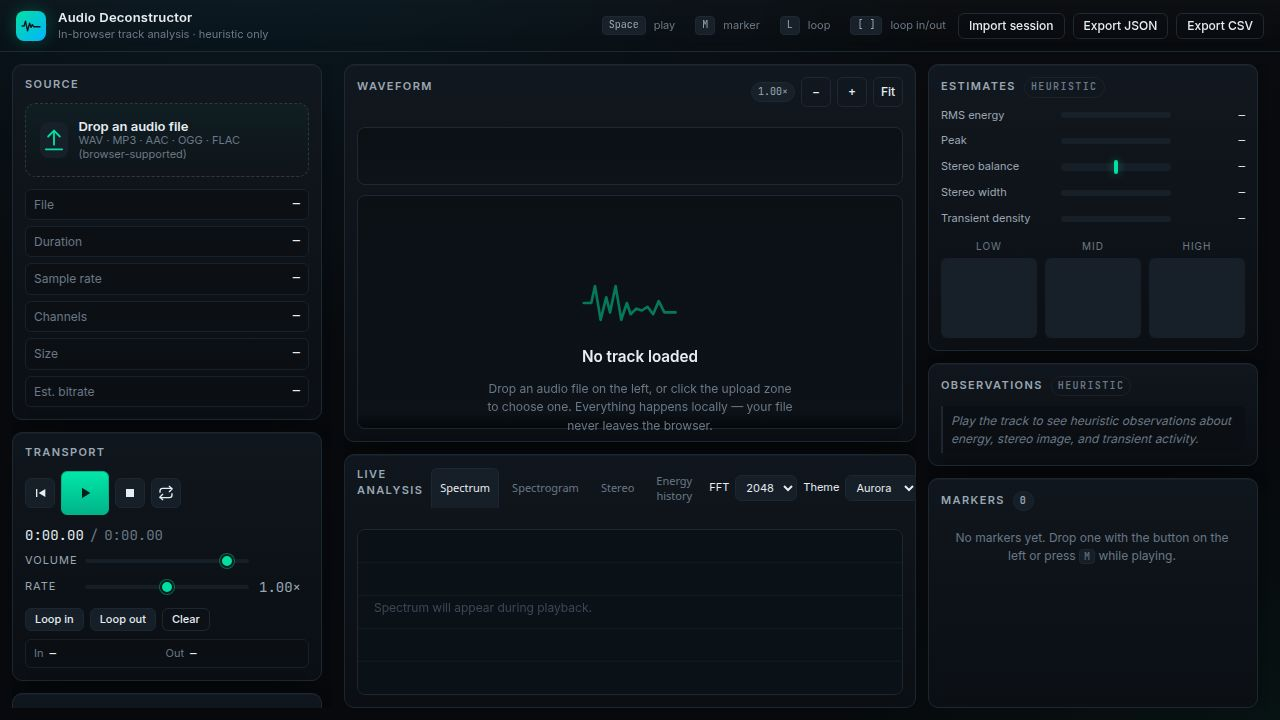
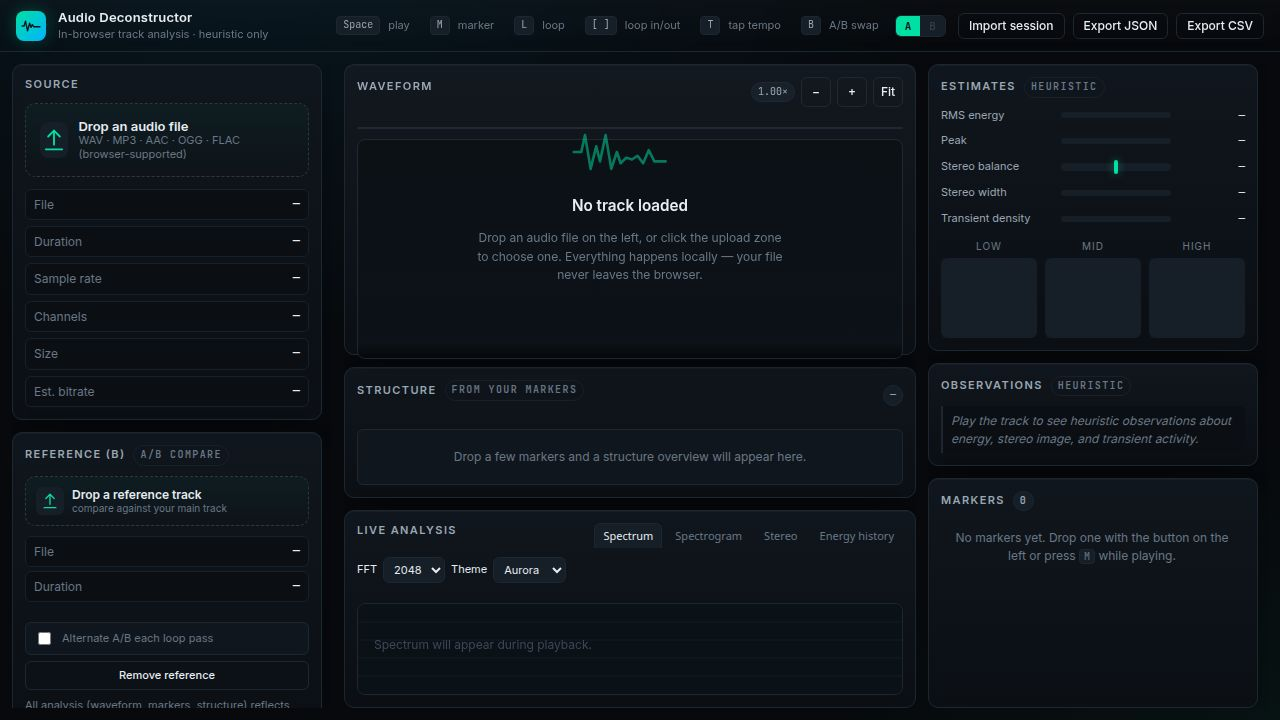
Add A/B comparison mode for analyzing multiple audio tracks
Introduce A/B audio track comparison functionality, allowing users to load and switch between two audio sources with synchronized playback, analysis, and comparison features.

Replit-Commit-Author: Agent
Replit-Commit-Session-Id: bc518ecd-7a12-47fa-b760-bdd7c34e5686
Replit-Commit-Checkpoint-Type: full_checkpoint
Replit-Commit-Event-Id: 87db0389-06eb-4f5e-9b43-9b7a5da2bd17
Replit-Commit-Screenshot-Url: https://storage.googleapis.com/screenshot-production-us-central1/5b295607-d7a9-4be4-af23-7a80d4bef0c7/bc518ecd-7a12-47fa-b760-bdd7c34e5686/RmlXYht
Replit-Helium-Checkpoint-Created: true

diff --git a/artifacts/audio-deconstructor/src/script.js b/artifacts/audio-deconstructor/src/script.js
@@ -25,9 +25,14 @@ const CAT_BY_ID = Object.fromEntries(CATEGORIES.map(c => [c.id, c]));
 
 const state = {
   audioCtx: null,
-  buffer: null,            // AudioBuffer
+  buffer: null,            // AudioBuffer (track A — analysed)
   fileName: null,
   fileSize: 0,
+  refBuffer: null,         // AudioBuffer (track B — reference, audio-only)
+  refFileName: null,
+  refFileSize: 0,
+  activeSource: "A",       // which buffer is currently routed to playback
+  abAlternate: false,      // when looping, swap A/B at every loop pass
   source: null,            // AudioBufferSourceNode
   gainNode: null,
   analyserMix: null,       // mono mix analyser
@@ -112,6 +117,18 @@ const el = {
 
   structureStrip: q("#structure-strip"),
   structureSummary: q("#structure-summary"),
+
+  refDropzone: q("#ref-dropzone"),
+  refFileInput: q("#ref-file-input"),
+  refMetaGrid: q("#ref-meta-grid"),
+  refMetaName: q("#ref-meta-name"),
+  refMetaDuration: q("#ref-meta-duration"),
+  abControls: q("#ab-controls"),
+  abAlternate: q("#ab-alternate"),
+  btnRefClear: q("#btn-ref-clear"),
+  abIndicator: q("#ab-indicator"),
+  abSideA: q("#ab-side-a"),
+  abSideB: q("#ab-side-b"),
 
   timeCurrent: q("#time-current"),
   timeTotal: q("#time-total"),
@@ -230,6 +247,8 @@ async function handleFile(file) {
     state.buffer = decoded;
     state.fileName = file.name;
     state.fileSize = file.size;
+    state.activeSource = "A";
+    updateAbUi();
     state.startedFrom = 0;
     state.scroll = 0;
     state.zoom = 1;
@@ -258,6 +277,84 @@ async function handleFile(file) {
   }
 }
 
+async function handleRefFile(file) {
+  if (!file) return;
+  if (!/^audio\//i.test(file.type) && !/\.(wav|mp3|aac|m4a|ogg|opus|flac|webm)$/i.test(file.name)) {
+    showToast("That doesn't look like an audio file.", "error");
+    return;
+  }
+  if (!state.buffer) {
+    showToast("Load a main track first, then add a reference.", "error");
+    return;
+  }
+  showToast(`Decoding reference ${file.name}…`);
+  const ctx = getCtx();
+  try {
+    const arrayBuffer = await file.arrayBuffer();
+    const decoded = await ctx.decodeAudioData(arrayBuffer.slice(0));
+    state.refBuffer = decoded;
+    state.refFileName = file.name;
+    state.refFileSize = file.size;
+    updateRefMeta();
+    updateAbUi();
+    showToast("Reference track loaded — switch to B to compare.", "success");
+  } catch (e) {
+    console.error(e);
+    showToast("Could not decode reference file.", "error");
+  }
+}
+
+function clearReference() {
+  if (state.activeSource === "B") setActiveSource("A", { silent: true });
+  state.refBuffer = null;
+  state.refFileName = null;
+  state.refFileSize = 0;
+  state.abAlternate = false;
+  if (el.abAlternate) el.abAlternate.checked = false;
+  updateRefMeta();
+  updateAbUi();
+  showToast("Reference removed.");
+}
+
+function updateRefMeta() {
+  if (state.refBuffer) {
+    el.refMetaGrid.hidden = false;
+    el.abControls.hidden = false;
+    el.refMetaName.textContent = state.refFileName || "—";
+    el.refMetaDuration.textContent = formatTime(state.refBuffer.duration);
+  } else {
+    el.refMetaGrid.hidden = true;
+    el.abControls.hidden = true;
+    el.refMetaName.textContent = "—";
+    el.refMetaDuration.textContent = "—";
+  }
+}
+
+function updateAbUi() {
+  const hasRef = !!state.refBuffer;
+  el.abSideB.disabled = !hasRef;
+  el.abSideA.classList.toggle("active", state.activeSource === "A");
+  el.abSideB.classList.toggle("active", state.activeSource === "B");
+}
+
+function setActiveSource(side, opts = {}) {
+  if (side !== "A" && side !== "B") return;
+  if (side === "B" && !state.refBuffer) {
+    showToast("Load a reference track first.");
+    return;
+  }
+  if (state.activeSource === side) { updateAbUi(); return; }
+  state.activeSource = side;
+  updateAbUi();
+  if (!opts.silent) {
+    showToast(side === "A" ? "Now playing: A (main)" : "Now playing: B (reference)", "success");
+  }
+  if (state.isPlaying && opts.restart !== false) {
+    const t = currentTime();
+    playFrom(t);
+  }
+}
+
 function updateMeta() {
   if (!state.buffer) return;
   el.metaName.textContent = state.fileName || "—";
@@ -275,14 +372,19 @@ function updateMeta() {
 
 /* ---------------- Playback ---------------- */
 
+function getActiveBuffer() {
+  return state.activeSource === "B" && state.refBuffer ? state.refBuffer : state.buffer;
+}
+
 function playFrom(time) {
   if (!state.buffer) return;
   stopPlayback(true); // silent stop
   const ctx = getCtx();
   if (ctx.state === "suspended") ctx.resume();
 
+  const playBuf = getActiveBuffer();
   const src = ctx.createBufferSource();
-  src.buffer = state.buffer;
+  src.buffer = playBuf;
   src.playbackRate.value = state.rate;
 
   // Build analyser graph
@@ -301,7 +403,7 @@ function playFrom(time) {
   src.connect(analyserMix);
   src.connect(splitter);
   splitter.connect(analyserL, 0);
-  splitter.connect(analyserR, state.buffer.numberOfChannels > 1 ? 1 : 0);
+  splitter.connect(analyserR, playBuf.numberOfChannels > 1 ? 1 : 0);
 
   analyserMix.connect(state.gainNode);
 
@@ -320,7 +422,7 @@ function playFrom(time) {
     }
   };
 
-  const startTime = clamp(time, 0, state.buffer.duration - 0.001);
+  const startTime = clamp(time, 0, playBuf.duration - 0.001);
   state.startedAt = ctx.currentTime;
   state.startedFrom = startTime;
   src.start(0, startTime);
@@ -362,11 +464,12 @@ function togglePlay() {
 
 function currentTime() {
   if (!state.buffer) return 0;
+  const playBuf = getActiveBuffer();
   if (state.isPlaying && state.audioCtx) {
     const t = state.startedFrom + (state.audioCtx.currentTime - state.startedAt) * state.rate;
-    return clamp(t, 0, state.buffer.duration);
+    return clamp(t, 0, playBuf.duration);
   }
-  return clamp(state.startedFrom, 0, state.buffer.duration);
+  return clamp(state.startedFrom, 0, playBuf.duration);
 }
 
 function seekTo(t) {
@@ -390,6 +493,9 @@ function scheduleLoopWatcher() {
 }
 function seekToLoopStart() {
   if (state.isLooping && state.loopIn != null && state.loopOut != null) {
+    if (state.abAlternate && state.refBuffer) {
+      setActiveSource(state.activeSource === "A" ? "B" : "A", { silent: true, restart: false });
+    }
     playFrom(state.loopIn);
   }
 }
@@ -1612,6 +1718,30 @@ function bindEvents() {
     e.target.value = "";
   });
 
+  // Reference (B) drop zone
+  ["dragenter", "dragover"].forEach(ev =>
+    el.refDropzone.addEventListener(ev, (e) => { e.preventDefault(); e.stopPropagation(); el.refDropzone.classList.add("drag"); }));
+  ["dragleave", "drop"].forEach(ev =>
+    el.refDropzone.addEventListener(ev, (e) => { e.preventDefault(); e.stopPropagation(); el.refDropzone.classList.remove("drag"); }));
+  el.refDropzone.addEventListener("drop", (e) => {
+    const f = e.dataTransfer?.files?.[0];
+    if (f) handleRefFile(f);
+  });
+  el.refDropzone.addEventListener("click", () => el.refFileInput.click());
+  el.refDropzone.addEventListener("keydown", (e) => { if (e.key === "Enter" || e.key === " ") { e.preventDefault(); el.refFileInput.click(); } });
+  el.refFileInput.addEventListener("change", (e) => {
+    const f = e.target.files?.[0];
+    if (f) handleRefFile(f);
+    e.target.value = "";
+  });
+  el.btnRefClear.addEventListener("click", clearReference);
+  el.abAlternate.addEventListener("change", (e) => {
+    state.abAlternate = e.target.checked;
+    showToast(state.abAlternate ? "Alternate A/B per loop pass on" : "Alternate A/B off");
+  });
+  el.abSideA.addEventListener("click", () => setActiveSource("A"));
+  el.abSideB.addEventListener("click", () => setActiveSource("B"));
+
   // Transport
   el.btnPlay.addEventListener("click", togglePlay);
   el.btnStop.addEventListener("click", () => { stopPlayback(); state.startedFrom = 0; updatePlayhead(); updateTimeReadout(); });
@@ -1834,6 +1964,7 @@ function bindEvents() {
     if (e.code === "Space") { e.preventDefault(); togglePlay(); }
     else if (e.key === "m" || e.key === "M") { if (state.buffer) addMarkerAt(currentTime(), state.selectedCategory); }
     else if (e.key === "t" || e.key === "T") { tapTempo(); }
+    else if (e.key === "b" || e.key === "B") { setActiveSource(state.activeSource === "A" ? "B" : "A"); }
     else if (e.key === "l" || e.key === "L") { el.btnLoop.click(); }
     else if (e.key === "[") { el.btnLoopIn.click(); }
     else if (e.key === "]") { el.btnLoopOut.click(); }
@@ -1860,6 +1991,8 @@ function bindEvents() {
 function init() {
   buildCategoryChips();
   bindEvents();
+  updateRefMeta();
+  updateAbUi();
   // Always run an animation tick so resize / zoom always update analyzer
   if (!state.rafId) state.rafId = requestAnimationFrame(tick);
 }

diff --git a/artifacts/audio-deconstructor/index.html b/artifacts/audio-deconstructor/index.html
@@ -31,6 +31,11 @@
           <kbd class="hint">L</kbd><span class="hint-label">loop</span>
           <kbd class="hint">[ ]</kbd><span class="hint-label">loop in/out</span>
           <kbd class="hint">T</kbd><span class="hint-label">tap tempo</span>
+          <kbd class="hint">B</kbd><span class="hint-label">A/B swap</span>
+          <div class="ab-indicator" id="ab-indicator" title="Currently playing source — click to swap (B)">
+            <button class="ab-side active" data-side="A" id="ab-side-a">A</button>
+            <button class="ab-side" data-side="B" id="ab-side-b" disabled>B</button>
+          </div>
           <button class="btn ghost" id="btn-import-json" title="Import a previously saved session JSON">Import session</button>
           <button class="btn ghost" id="btn-export-json" title="Export markers + notes as JSON">Export JSON</button>
           <button class="btn ghost" id="btn-export-csv" title="Export markers as CSV">Export CSV</button>
@@ -64,6 +69,34 @@
               <div class="meta-row"><span>Size</span><strong id="meta-size">—</strong></div>
               <div class="meta-row"><span>Est. bitrate</span><strong id="meta-bitrate">—</strong></div>
             </div>
+          </section>
+
+          <section class="card" id="reference-card">
+            <h2 class="card-title">Reference (B) <span class="badge subtle">A/B compare</span></h2>
+            <div class="dropzone compact" id="ref-dropzone" tabindex="0" aria-label="Drop a reference audio file for A/B comparison">
+              <div class="dz-icon" aria-hidden="true">
+                <svg viewBox="0 0 24 24" width="20" height="20" fill="none" stroke="currentColor" stroke-width="1.6" stroke-linecap="round" stroke-linejoin="round">
+                  <path d="M12 16V4"/><path d="M7 9l5-5 5 5"/><path d="M5 20h14"/>
+                </svg>
+              </div>
+              <div class="dz-text">
+                <strong>Drop a reference track</strong>
+                <span>compare against your main track</span>
+              </div>
+              <input type="file" id="ref-file-input" accept="audio/*" hidden />
+            </div>
+            <div class="meta-grid compact" id="ref-meta-grid" hidden>
+              <div class="meta-row"><span>File</span><strong id="ref-meta-name">—</strong></div>
+              <div class="meta-row"><span>Duration</span><strong id="ref-meta-duration">—</strong></div>
+            </div>
+            <div class="ab-controls" id="ab-controls" hidden>
+              <label class="snap-toggle" title="When looping, automatically swap A/B at every loop boundary so you can hear them back to back">
+                <input type="checkbox" id="ab-alternate" />
+                <span>Alternate A/B each loop pass</span>
+              </label>
+              <button class="btn small ghost block" id="btn-ref-clear" title="Remove reference track">Remove reference</button>
+            </div>
+            <p class="muted-note">All analysis (waveform, markers, structure) reflects track A. Switch playback to B to hear how they differ at the same position.</p>
           </section>
 
           <section class="card">

diff --git a/artifacts/audio-deconstructor/src/style.css b/artifacts/audio-deconstructor/src/style.css
@@ -269,9 +269,35 @@ body {
 .dz-text span { font-size: 11px; color: var(--text-mute); }
 
 .meta-grid { margin-top: 12px; display: grid; gap: 6px; }
+.meta-grid.compact { margin-top: 10px; gap: 4px; }
 .meta-row { display: flex; justify-content: space-between; gap: 8px; padding: 6px 8px; background: var(--bg-1); border: 1px solid var(--line-soft); border-radius: 6px; font-size: 12px; }
 .meta-row span { color: var(--text-mute); }
 .meta-row strong { font-family: var(--font-mono); font-weight: 500; color: var(--text); font-size: 12px; }
+
+.dropzone.compact { padding: 10px; gap: 8px; }
+.dropzone.compact .dz-icon { width: 28px; height: 28px; border-radius: 6px; }
+.dropzone.compact .dz-text strong { font-size: 12px; }
+.dropzone.compact .dz-text span { font-size: 10px; }
+
+.ab-controls { display: flex; flex-direction: column; gap: 6px; margin-top: 10px; }
+[hidden] { display: none !important; }
+
+/* ---------- Top-bar A/B switch ---------- */
+.ab-indicator {
+  display: inline-flex; gap: 0; margin-left: 4px; margin-right: 4px;
+  background: var(--bg-3); border: 1px solid var(--line); border-radius: 6px; overflow: hidden;
+}
+.ab-side {
+  background: transparent; color: var(--text-mute);
+  border: none; padding: 3px 9px;
+  font-family: var(--font-mono); font-size: 11px; font-weight: 600;
+  cursor: pointer;
+  transition: background .12s, color .12s;
+}
+.ab-side:hover:not(:disabled) { color: var(--text); background: rgba(255,255,255,.04); }
+.ab-side.active { background: var(--accent); color: #071212; }
+.ab-side.active[data-side="B"] { background: var(--cat-chorus, #ffb13d); color: #1a0c00; }
+.ab-side:disabled { opacity: .35; cursor: not-allowed; }
 
 /* ---------- Transport ---------- */
 .transport { display: flex; gap: 6px; align-items: center; }
